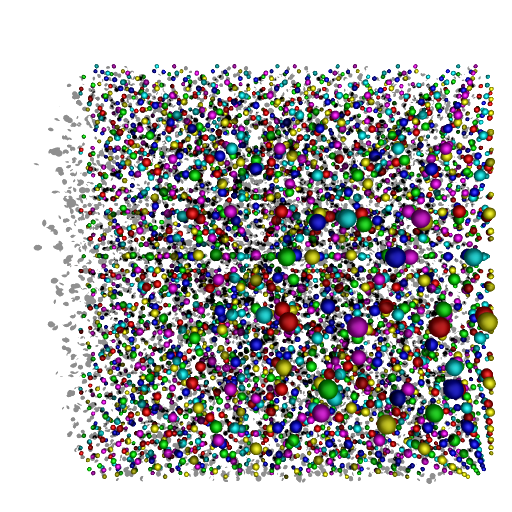
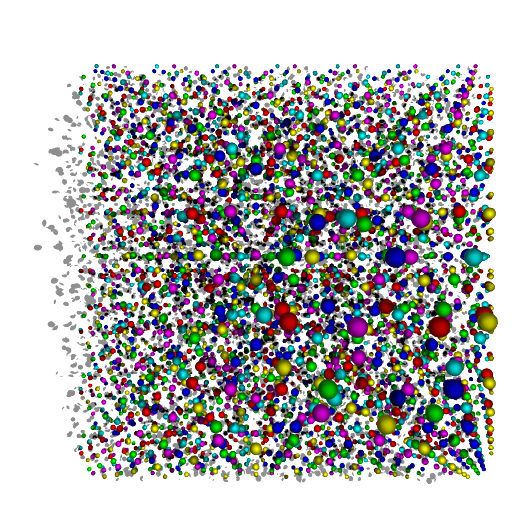
update reflection

diff --git a/trace.cpp b/trace.cpp
@@ -67,7 +67,7 @@ bool Triangle::intersect(const Ray &r, double t0, double t1, HitRecord &hr) cons
     auto n3 = cross(a - c, b - c);
     normalize(n3);
 
-    hr.n = hr.alpha * n1 + hr.beta * n2 + hr.gamma * n3;
+    hr.n = n1 + n2 + n3;
     normalize(hr.n);
 
     return true;
@@ -265,7 +265,7 @@ SlVector3 Tracer::shade(const HitRecord &hr) const {
     HitRecord dummy;
     SlVector3 color(0.0);
 
-    constexpr auto epsilon = 0.00001;
+    constexpr auto epsilon = 1e-6;
 
     for (unsigned int i=0; i<lights.size(); i++) {
         const Light &light = lights[i];
@@ -296,13 +296,26 @@ SlVector3 Tracer::shade(const HitRecord &hr) const {
             // Calculate diffuse color
             auto diffuse = hr.f.kd * light.c * hr.f.color * std::max(dot(inVec, hr.n), 0.0);
             // Calculate specular color
-            auto specular = hr.f.ks * light.c * std::pow(std::max(0.0, dot(reflectVec, viewVec)), hr.f.shine);
+            auto specular = hr.f.ks * light.c * hr.f.color * std::pow(std::max(0.0, dot(reflectVec, viewVec)), hr.f.shine);
             color += diffuse + specular;
         }
     }
 
-    // Step 4 Add code for computing reflection color here
+    dummy = {};
+    dummy.t = std::numeric_limits<double>::max();
+    if(dummy.raydepth < maxraydepth)
+    {
+        auto reflectRayDirection = -hr.v + 2 * dot(hr.v, hr.n) * hr.n;
+        normalize(reflectRayDirection);
 
+        Ray reflectRay(hr.p + epsilon * reflectRayDirection, reflectRayDirection);
+
+        if(dot(reflectRayDirection, hr.n) > 0 && bvh->intersect(reflectRay, 0, std::numeric_limits<double>::max(), dummy))
+        {
+            dummy.raydepth = hr.raydepth + 1;
+            color += hr.f.ks * hr.f.color * shade(dummy);
+        }
+    }
     
 
     // Step 5 Add code for computing refraction color here
@@ -312,6 +325,7 @@ SlVector3 Tracer::shade(const HitRecord &hr) const {
 
 SlVector3 Tracer::trace(const Ray &r, double t0, double t1) const {
     HitRecord hr;
+    hr.raydepth = 0;
     SlVector3 color(bcolor);
   
     bool hit = false;
@@ -348,7 +362,8 @@ void Tracer::traceImage() {
                             SlVector3 *pixel = im + rng.begin() * res[0];
                             for(size_t j = rng.begin(); j != rng.end(); ++j)
                             {
-                              for (unsigned int i=0; i<res[0]; i++, pixel++) { SlVector3 result(0.0,0.0,0.0);
+                              for (unsigned int i=0; i<res[0]; i++, pixel++) { 
+                                  SlVector3 result(0.0,0.0,0.0);
                                   for (int k = 0; k < samples; k++) {
 
                                       double rx = 1.1 * rand() / RAND_MAX;

diff --git a/README.md b/README.md
@@ -7,7 +7,7 @@
     - phong shading model
     - multithreading with tbb
     - acceleration using BVH
-    - reflection (in progress)
+    - reflection
     - refraction (in progress)
     
 ## Requirements
